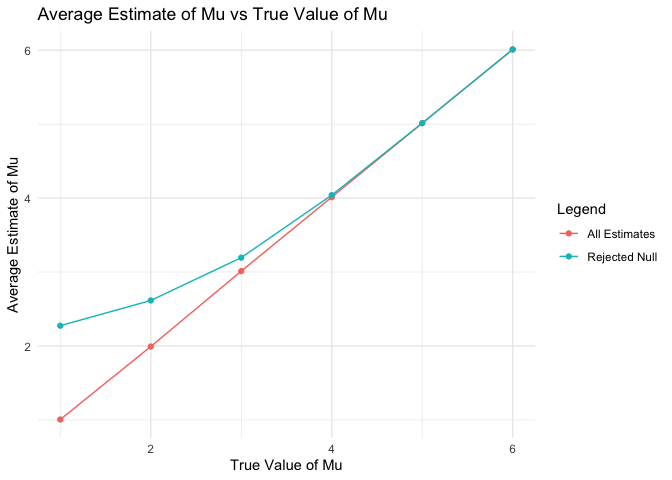
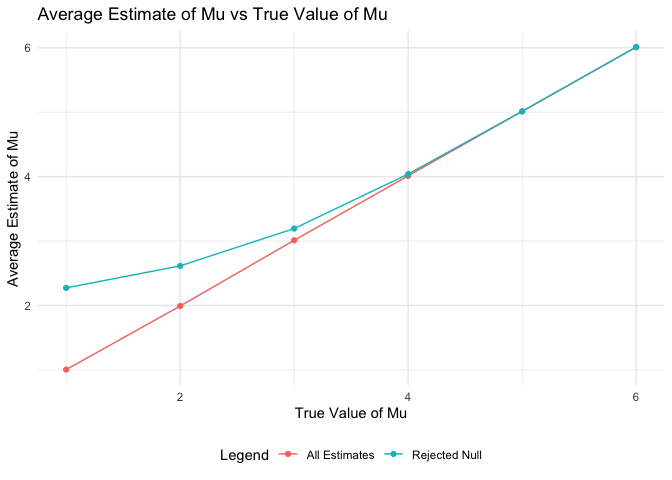
final touches to probelm2

diff --git a/homework5.md b/homework5.md
@@ -71,8 +71,9 @@ n_simulations <- 5000
 ```
 
 Function for every mu values:  
-Generate data from N(mu, sigma) and perform a one-sample t-test. After
-that, we use broom::tidy() function to extract estimate and p-value
+Generate data from normal distribution N(mu, sigma) and perform a
+one-sample t-test using alpha=0.05. After that, we use broom::tidy()
+function to extract estimate and p-value.
 
 ``` r
 simulate_t_test <- function(n, mu, sigma, alpha) {
@@ -94,6 +95,8 @@ simulate_t_test <- function(n, mu, sigma, alpha) {
 }
 ```
 
+Do iteration for t-test simulation.
+
 ``` r
 sim_results_df = 
   expand_grid(
@@ -107,18 +110,33 @@ sim_results_df =
   unnest(estimate_df)
 ```
 
+Calculate the power (proportion of times the null was rejected), average
+estimate for all simulations (be it null rejected or not) and average
+estimate when null is rejected.  
+Since “reject_null” is a logical vector (TRUE if null was rejected) and
+mean() of a logical vector in R treats TRUE as 1 and FALSE as 0,
+mean(reject_null) gives the proportion of simulations where the null
+hypothesis was rejected.  
+u_hat\[reject_null\] subsets u_hat to include only estimates from
+simulations where the null hypothesis was rejected.
+
 ``` r
-summary_results <- sim_results_df %>%
-  group_by(mu) %>%
+summary_results = sim_results_df |>
+  group_by(mu) |>
   summarise(
-    power = mean(reject_null),                      # Proportion of null rejected
-    avg_u_hat = mean(u_hat),                        # Average estimate
-    avg_u_hat_rejected = mean(u_hat[reject_null])   # Average estimate when null is rejected
+    power = mean(reject_null),                      
+    avg_u_hat = mean(u_hat),                        
+    avg_u_hat_rejected = mean(u_hat[reject_null])   
   )
 ```
 
+Plot: Power vs True Value of Mu \#### For small effect sizes (e.g., mu =
+0), power is close to zero, indicating the test has low ability to
+detect small effects. As mu increases, power approaches 1, showing that
+the test is more likely to reject the null hypothesis when the true
+effect is larger.
+
 ``` r
-# Plot: Power vs True Value of Mu
 ggplot(summary_results, aes(x = mu, y = power)) +
   geom_line(color = "blue") +
   geom_point(color = "blue") +
@@ -132,8 +150,14 @@ ggplot(summary_results, aes(x = mu, y = power)) +
 
 ![](homework5_files/figure-gfm/unnamed-chunk-9-1.png)<!-- -->
 
+Plot: Average Estimate vs True Value of Mu \#### The average estimate of
+mu-hat across all samples is approximately equal to the true value of
+mu. This shows the test is unbiased on average. The average mu_hat for
+rejected nulls is slightly larger than the true value of mu. This occurs
+because rejecting the null requires u_hat to be sufficiently far from 0,
+introducing selection bias.
+
 ``` r
-# Plot: Average Estimate vs True Value of Mu
 ggplot(summary_results, aes(x = mu)) +
   geom_line(aes(y = avg_u_hat, color = "All Estimates")) +
   geom_line(aes(y = avg_u_hat_rejected, color = "Rejected Null")) +
@@ -145,7 +169,15 @@ ggplot(summary_results, aes(x = mu)) +
     y = "Average Estimate of Mu",
     color = "Legend"
   ) +
-  theme_minimal()
+  theme_minimal() +
+  theme(legend.position="bottom")
 ```
 
 ![](homework5_files/figure-gfm/unnamed-chunk-10-1.png)<!-- -->
+
+Answer to the question: Across all samples, the sample average of mu_hat
+is approximately equal to the true mu, confirming that the estimator is
+unbiased. However, for samples where the null is rejected, the average
+mu_hat is not equal to the true mu. This is due to conditional bias:
+only samples with extreme values of mu_hat lead to rejection of the null
+hypothesis.
